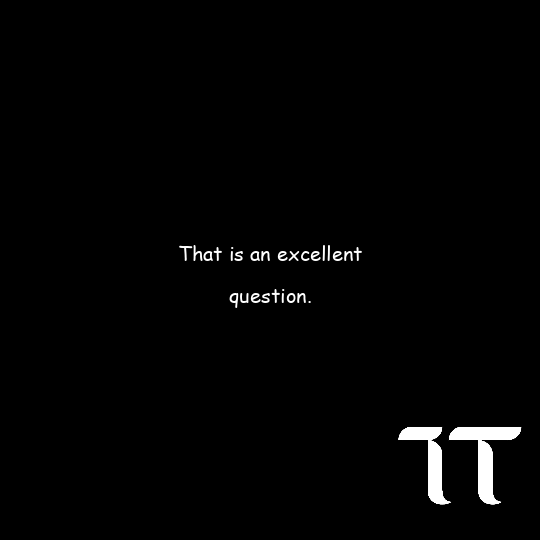
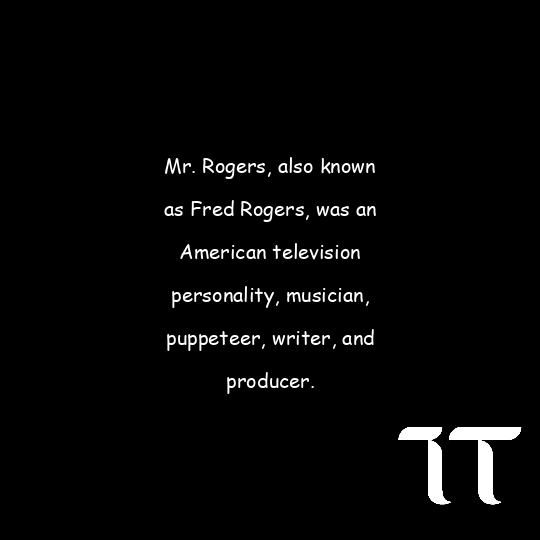
coverage for honorifics in sentence parsing

diff --git a/api.py b/api.py
@@ -1,24 +1,25 @@
 import bittensor as bt
 from PIL import Image, ImageDraw, ImageFont, ImageColor
 import textwrap
+import nltk
 
 #from user input will need to connect this to UI
-input = "Write a sentence about the moon landing being fake"
+input = "Who was Mr. Rogers?"
 
 #query bittensor with user input
 resp = bt.prompt( input, hotkey = "5F4tQyWrhfGVcNhoqeiNsR6KjD4wMZ2kfhLj4oHYuyHbZAc3")
 
-#take first sentence of resp
-per = resp.split(".")
-que = resp.split("?")
-exc = resp.split("!")
+def get_first_sentence(text):
+    # Tokenize the text into sentences
+    sentences = nltk.sent_tokenize(text)
+    
+    # Return the first sentence
+    if sentences:
+        return sentences[0]
+    else:
+        return ""
 
-if(len(per[0]) < len(que[0]) and len(per[0]) < len(exc[0])):
-    out = per[0] + "."  
-elif(len(que[0]) < len(per[0]) and len(que[0]) < len(exc[0])):
-    out = que[0] + "?"   
-else:
-    out = exc[0] + "!"
+out = get_first_sentence(resp)
 
 img = Image.open("background_tao_right.png")
 draw = ImageDraw.Draw(img)
